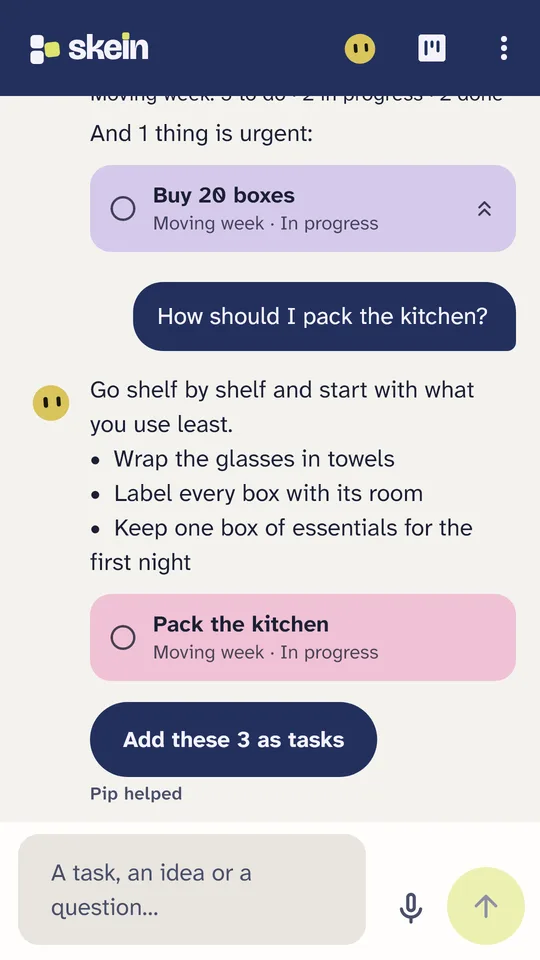
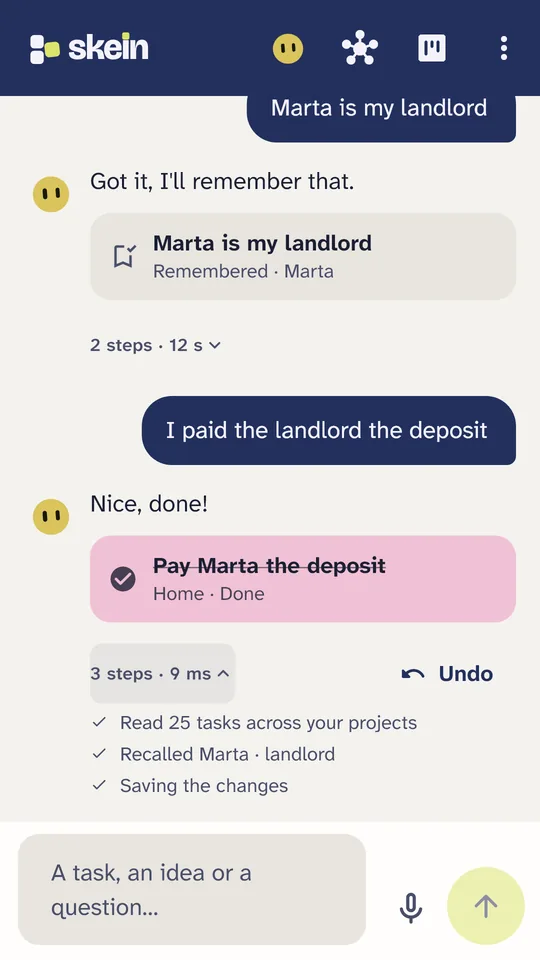
feat(skein): memory and graph view, new screenshots [skip ci]

diff --git a/src/content.js b/src/content.js
@@ -37,8 +37,8 @@ export const apps = [
     ads: true,
     tagline: "A second brain you chat with, backed by serverless kanban boards.",
     description:
-      "Tell it a task, an idea, an update or a question. A private on-device assistant checks every project, then files, updates, completes or answers, with an undo for each change. Each project is a kanban board; sharing is peer to peer and end-to-end encrypted, so there is no account and no server that stores your data.",
-    facts: ["On-device AI with a validated, rule-first harness", "Peer to peer, end-to-end encrypted", "English and Spanish, by text or voice"],
+      "Tell it a task, an idea, an update or a question. A private on-device assistant checks every project, then files, updates, completes or answers, with an undo for each change. It remembers the people, places and facts you mention, so a short \u201cI paid the landlord\u201d is enough, and shows that memory as a graph. Each project is a kanban board; sharing is peer to peer and end-to-end encrypted, so there is no account and no server that stores your data.",
+    facts: ["On-device AI with a validated, rule-first harness", "Local memory with an Obsidian-style graph", "Peer to peer, end-to-end encrypted"],
     stack: ["Flutter", "Dart", "AI", "Encryption", "Firebase"],
     play: play("com.elpages.skein"),
     icon: img("skein", "icon.webp"),
